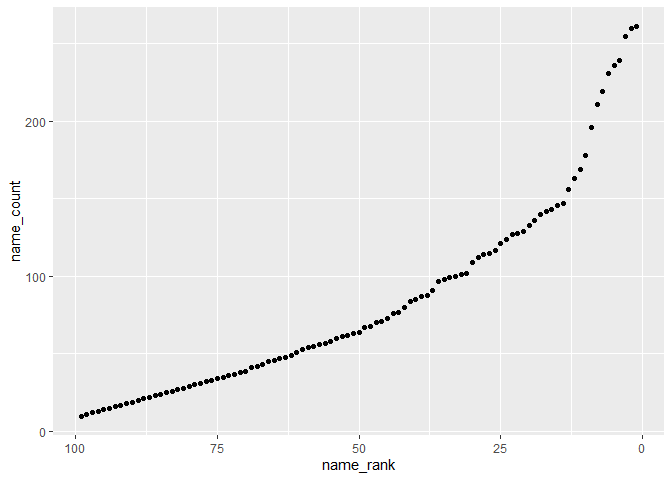
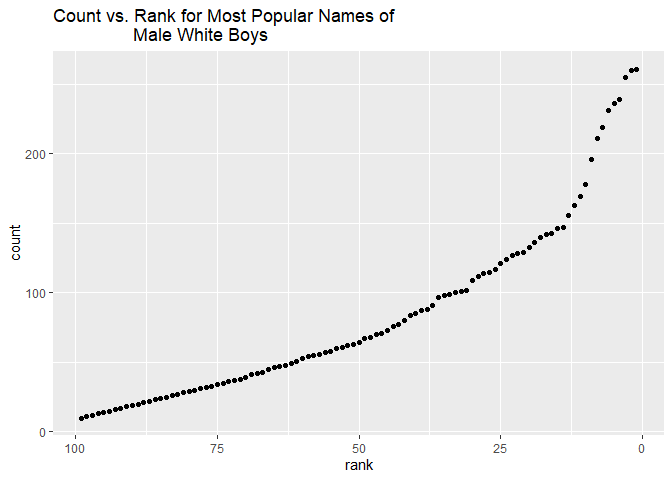
Added title to last graph

diff --git a/p8105_hw2_are2132.md b/p8105_hw2_are2132.md
@@ -454,16 +454,12 @@ male_white_boys = filter(baby_names, gender == "MALE",
                          year_of_birth == "2016",
                          ethnicity == "WHITE NON HISPANIC")
 
-#isolate columns for count & rank
-name_count = pull(male_white_boys, count)
-name_rank = pull(male_white_boys, rank)
-
-
-#combine into a new 2 column tibble
-mwb_df = tibble(name_rank, name_count)
 
 #plot it (I have reversed x-axis for intuitive reading)
-ggplot(mwb_df, aes(x = name_rank, y = name_count)) + geom_point() + scale_x_reverse()
+plot1 = ggplot(male_white_boys, aes(x = rank, y = count)) +
+  geom_point() + scale_x_reverse()
+plot1 + ggtitle("Count vs. Rank for Most Popular Names of 
+                Male White Boys")
 ```
 
 ![](p8105_hw2_are2132_files/figure-gfm/unnamed-chunk-7-1.png)<!-- -->
